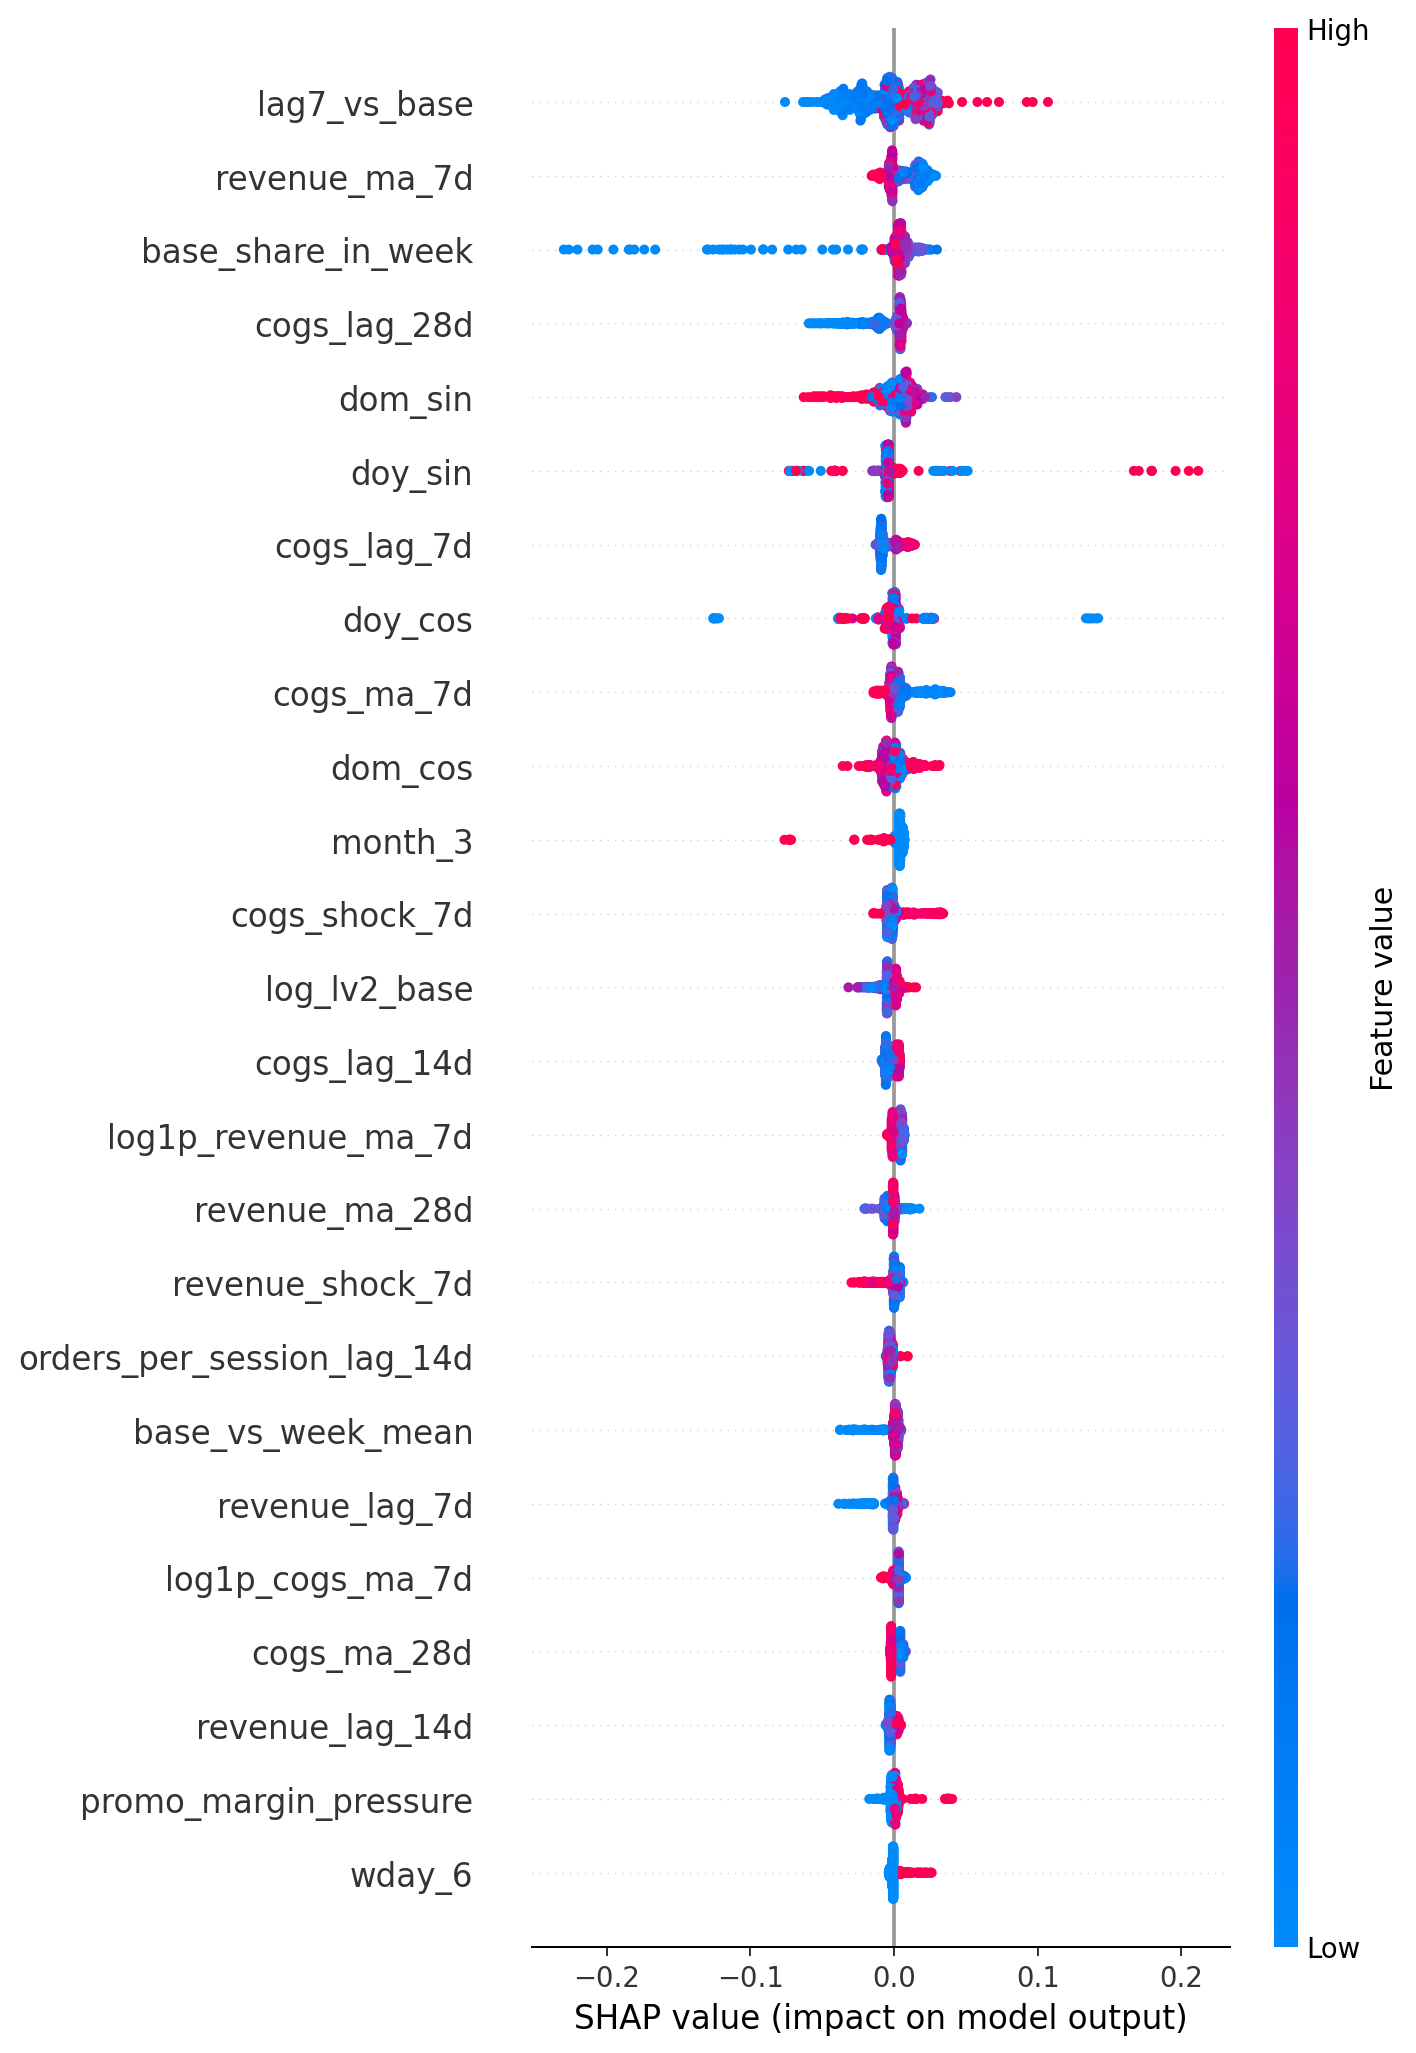
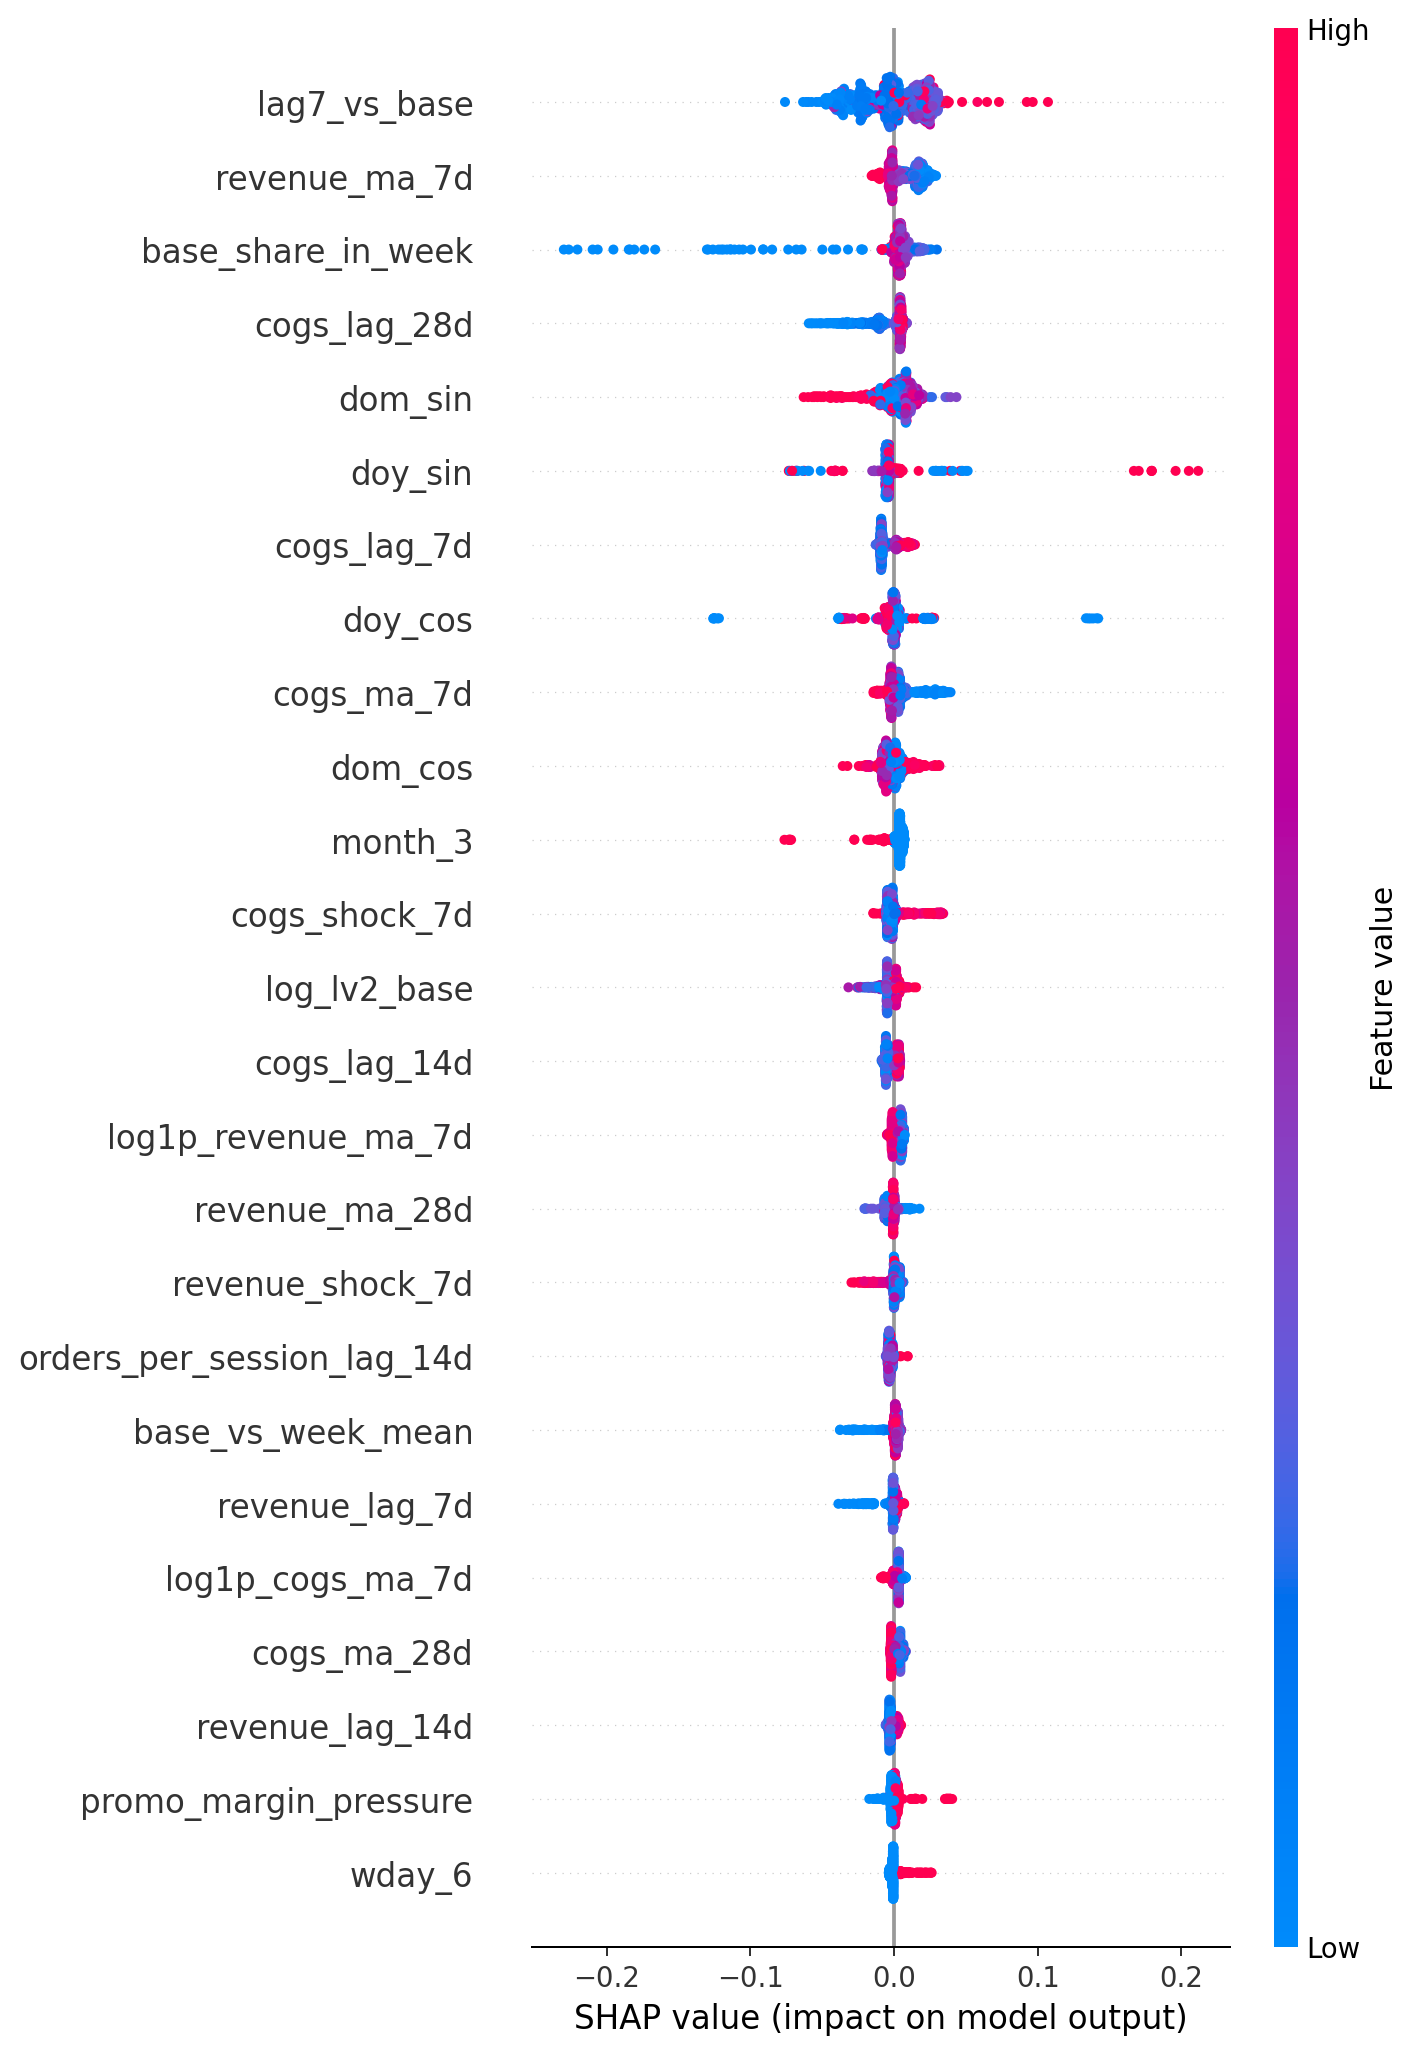
Refresh forecast artifacts after full pipeline run

Changed region(s): [[0.6215, 0.4364, 0.6525, 0.904], [0.5904, 0.0312, 0.6836, 0.4053]]

diff --git a/artifacts/pipeline_best650_summary.md b/artifacts/pipeline_best650_summary.md
@@ -4,7 +4,7 @@
 - Canonical variant: `outputs\submission_best650_rev1000_cogs1015.csv`
 - Raw model output: `outputs\submission_model_raw.csv`
 - Intervals: `outputs\submission_intervals.csv`
-- SHAP: skipped
+- SHAP directory: `artifacts\shap`
 
 ## Totals
 
